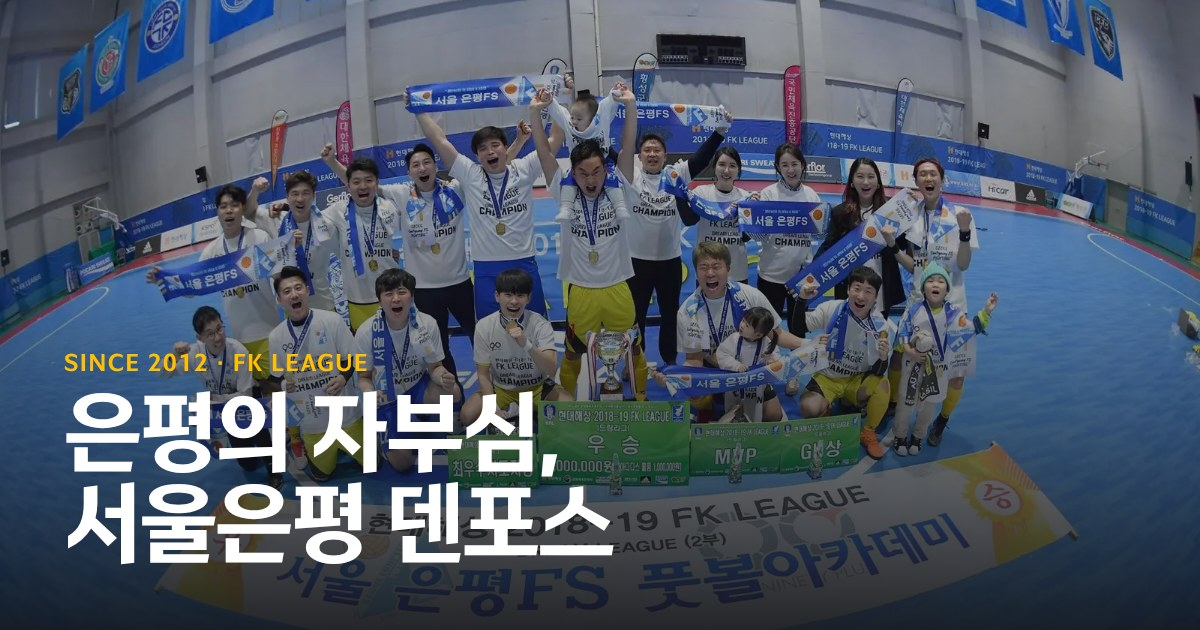
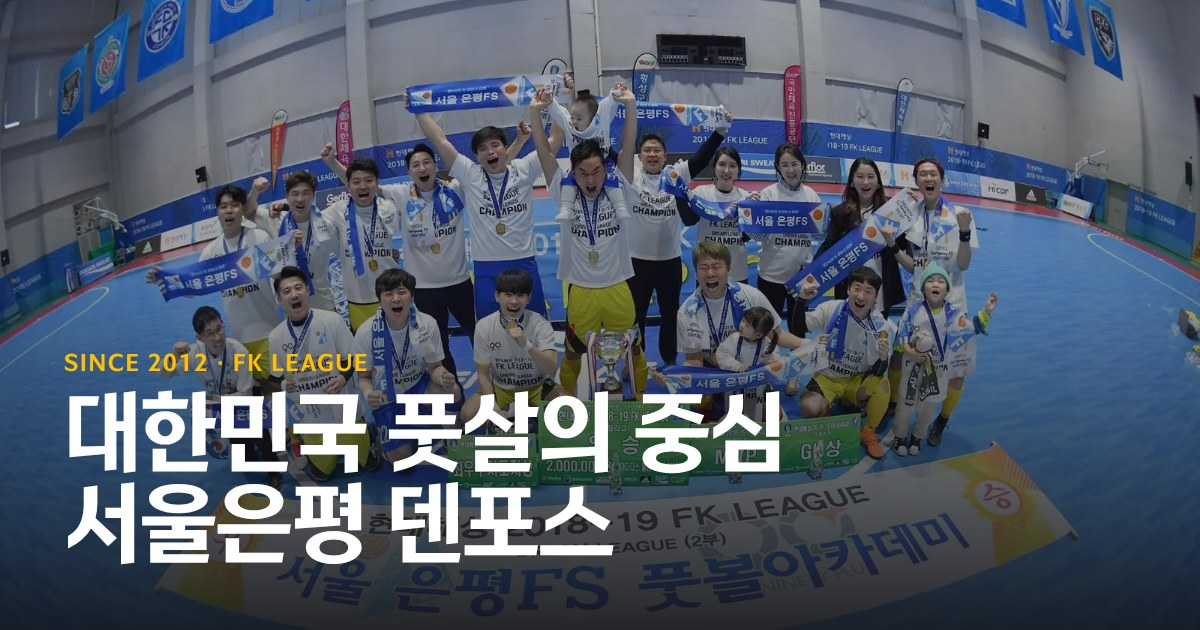
feat(site): 메인 히어로 문구 '대한민국 풋살의 중심' + 링크 미리보기 이미지 (D-036)
Claude-Session: https://claude.ai/code/session_01KQVuA2kxxdcTX7GeV6BuEM

Changed region(s): [[0.0308, 0.6032, 0.6475, 0.754]]

diff --git a/sites/eunpyeong-denforce/src/components/home/Hero.tsx b/sites/eunpyeong-denforce/src/components/home/Hero.tsx
@@ -22,7 +22,8 @@ export function Hero({ nextHome }: { nextHome?: Match }) {
         <div className={styles.copy}>
           <p className={styles.eyebrow}>SINCE {SITE.founded} · FK LEAGUE</p>
           <h1 className={styles.title}>
-            은평의 자부심,
+            {/* 좁은 화면(360px)에서 '중심'만 홀로 떨어지지 않게 — 줄바꿈은 '대한민국 / 풋살의 중심' */}
+            대한민국 <span className={styles.phrase}>풋살의 중심</span>
             <br />
             {SITE.name}
           </h1>

diff --git a/sites/eunpyeong-denforce/src/components/home/Hero.module.css b/sites/eunpyeong-denforce/src/components/home/Hero.module.css
@@ -44,6 +44,10 @@
   letter-spacing: -0.02em;
 }
 
+.phrase {
+  white-space: nowrap;
+}
+
 .next {
   flex: none;
   display: flex;

diff --git a/sites/eunpyeong-denforce/docs/DECISION_LOG.md b/sites/eunpyeong-denforce/docs/DECISION_LOG.md
@@ -29,6 +29,11 @@
 
 <!-- 여기서부터 최신 항목을 위에 추가 -->
 
+## D-036 | 2026-10-16 | 메인 히어로 문구 "대한민국 풋살의 중심"
+- **상태**: 채택 (소유자 지시 "은평의 자부심 → 대한민국 풋살의 중심 / 서울은평 덴포스")
+- **결정**: 메인 히어로 제목을 "대한민국 풋살의 중심 / 서울은평 덴포스"(두 줄, 쉼표 없음 — 지시 문구 그대로)로. 같은 문구를 담은 링크 미리보기 이미지(`opengraph-image.jpg`·`twitter-image.jpg`, D-025)와 대체 텍스트도 같은 방법(히어로 HTML 렌더링)으로 다시 만들었다. 좁은 화면(360px)에서는 '중심'만 홀로 떨어지지 않게 '풋살의 중심'을 붙여 "대한민국 / 풋살의 중심 / 서울은평 덴포스" 세 줄로(서체·크기는 그대로).
+- **영향**: 과거 게시물 '홈페이지 오픈 안내'의 사진(그때의 미리보기 이미지)은 기록이라 그대로 둔다. 카카오톡에 이미 공유된 주소는 캐시 초기화 전까지 옛 미리보기가 보일 수 있다(D-025).
+
 ## D-035 | 2026-10-16 | 구단영상 재생 + 구단소식 메인 소식 슬라이드 배너
 - **상태**: 채택 (소유자 지시 "구단영상에는 1) 인스타그램 쇼츠 2) 유튜브 구단 채널 영상", "위에 크게 메인 소식(이적 내용 제외) 배너, 시간 지나면 옆으로 슬라이드")
 - **결정(영상)**: `news_posts.video_url`(유튜브 watch·shorts·youtu.be / 인스타그램 p·reel, https) 추가(마이그레이션 20261016150000). 글 상세 맨 위에서 iframe 으로 재생(유튜브는 youtube-nocookie, 쇼츠는 세로, 인스타그램은 /embed) + '유튜브/인스타그램에서 보기' 링크. 목록 카드에 ▶ 표시. 주소 해석은 `lib/video parseVideoUrl`(관리자 저장 때 검사, 다른 주소는 거절). 관리자 구단소식 폼에 '영상 주소' 칸.
@@ -84,8 +89,8 @@
 - **버린 대안**: 네이버 지도 iframe — 네이버가 다른 사이트 안에 띄우는 것을 막는다. / 정적 지도 이미지 — 역시 키가 필요하고 움직이지 않는다.
 
 ## D-025 | 2026-10-16 | 링크 미리보기(카카오톡·SNS) — 홈 첫 화면과 같은 이미지
-- **상태**: 채택 (소유자 지시 "미리보기도 준비 — 이런 느낌처럼"(홈 히어로 화면))
-- **결정**: `app/opengraph-image.jpg`·`twitter-image.jpg` (1200×630) = 홈 히어로와 같은 2018-19 드림리그 우승 사진 + 아래쪽 어두운 그라데이션 + "SINCE 2012 · FK LEAGUE"(옐로) + "은평의 자부심, 서울은평 덴포스"(KFA고딕). 히어로 HTML 을 같은 서체·색으로 브라우저에서 렌더링해 만든 고정 이미지. `metadataBase = SITE.url`(https://eunpyeong-fs.com) 로 절대 주소, 설명은 "FK리그 서울은평 풋살팀 공식 홈페이지 · 경기 일정·결과, 선수단, 구단 소식". og:title/description 은 따로 지정하지 않아 페이지 제목·설명을 그대로 따른다(Next 가 자동으로 채움).
+- **상태**: 채택 · 문구 → D-036 으로 바뀜 (소유자 지시 "미리보기도 준비 — 이런 느낌처럼"(홈 히어로 화면))
+- **결정**: `app/opengraph-image.jpg`·`twitter-image.jpg` (1200×630) = 홈 히어로와 같은 2018-19 드림리그 우승 사진 + 아래쪽 어두운 그라데이션 + "SINCE 2012 · FK LEAGUE"(옐로) + 히어로 제목(처음 "은평의 자부심, 서울은평 덴포스" → D-036 에서 "대한민국 풋살의 중심 서울은평 덴포스")(KFA고딕). 히어로 HTML 을 같은 서체·색으로 브라우저에서 렌더링해 만든 고정 이미지. `metadataBase = SITE.url`(https://eunpyeong-fs.com) 로 절대 주소, 설명은 "FK리그 서울은평 풋살팀 공식 홈페이지 · 경기 일정·결과, 선수단, 구단 소식". og:title/description 은 따로 지정하지 않아 페이지 제목·설명을 그대로 따른다(Next 가 자동으로 채움).
 - **버린 대안**: 코드로 그때그때 그리는 이미지(ImageResponse) — 한글 서체 파일(woff2 미지원) 변환이 필요하고 내용이 바뀌지 않아 고정 이미지로 충분.
 - **영향**: 카카오톡은 미리보기를 캐시하므로, 이미 공유된 주소는 카카오 개발자 '공유 디버거'에서 캐시 초기화해야 새 이미지가 보인다.
 
